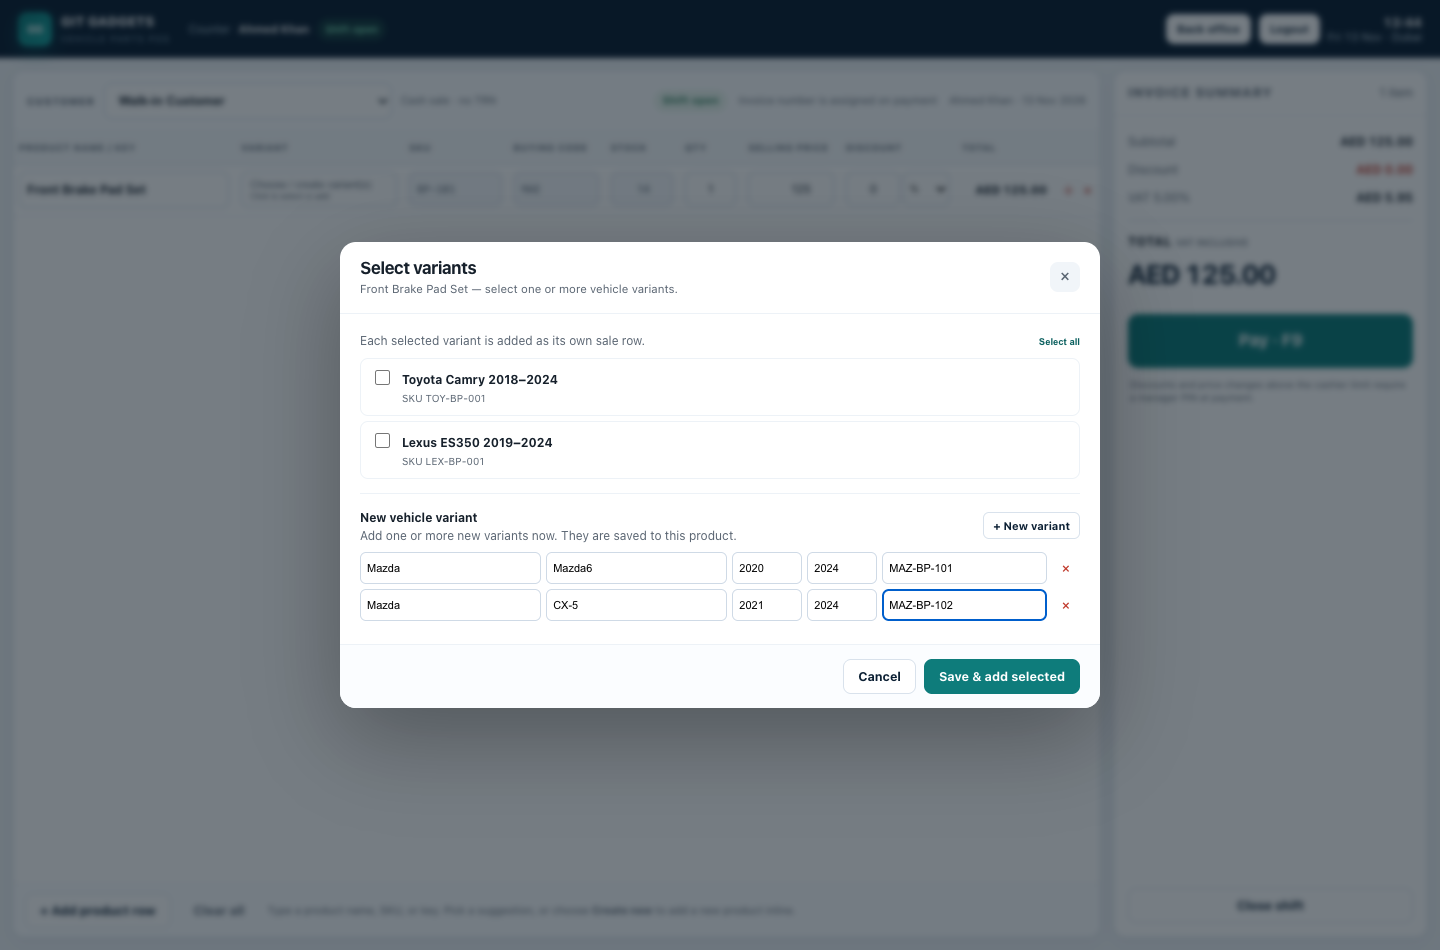
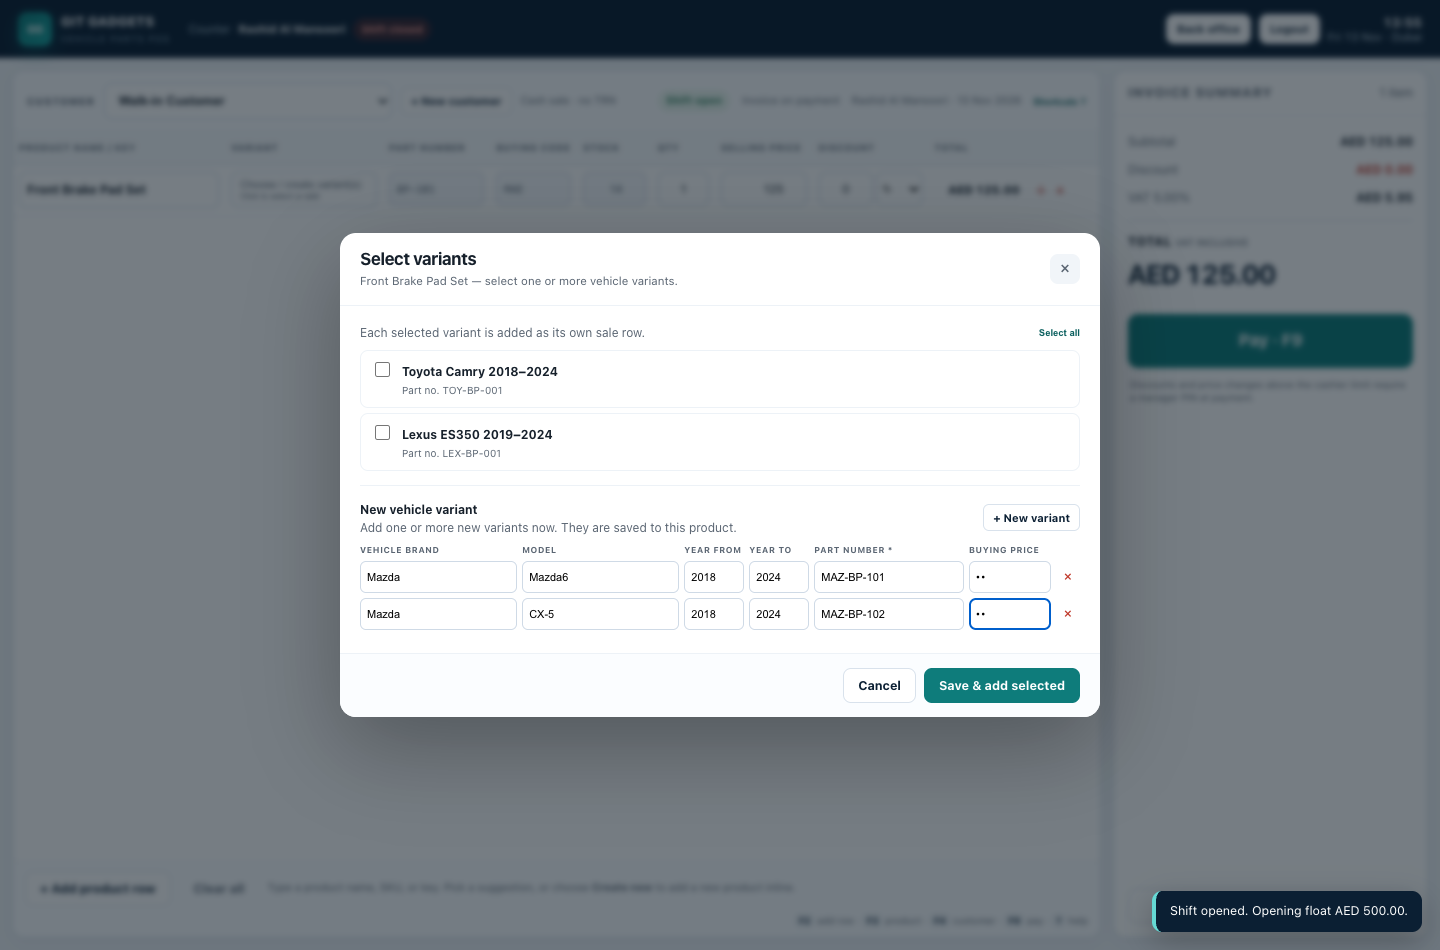
Add per-variant buying price and part numbers

diff --git a/public/js/pos.js b/public/js/pos.js
@@ -416,12 +416,15 @@
     const addNewVariantRow = () => {
         const row = document.createElement('div');
         row.className = 'new-variant-row';
+        const canViewCost = !!boot.user?.can_view_cost;
+        row.className = 'new-variant-row' + (canViewCost ? ' with-cost' : '');
         row.innerHTML = `
             <input data-new-brand list="variant-brand-list" placeholder="Vehicle brand" autocomplete="off">
             <input data-new-model list="variant-model-list" placeholder="Model" autocomplete="off">
             <input data-new-year-from type="number" min="1950" max="2100" value="2018" placeholder="From">
             <input data-new-year-to type="number" min="1950" max="2100" value="2024" placeholder="To">
             <input data-new-mapped placeholder="Part number *">
+            ${canViewCost ? '<input data-new-cost type="password" inputmode="decimal" autocomplete="off" placeholder="Buying price">' : ''}
             <button type="button" class="remove" data-remove-new-variant>×</button>
         `;
         $('#new-variant-rows').appendChild(row);
@@ -471,6 +474,7 @@
             year_from: Number(row.querySelector('[data-new-year-from]').value || 0),
             year_to: Number(row.querySelector('[data-new-year-to]').value || 0),
             mapped_part_number: row.querySelector('[data-new-mapped]').value.trim(),
+            cost_price: row.querySelector('[data-new-cost]')?.value.trim() || null,
         })).filter(row => row.vehicle_brand || row.vehicle_model);
     };
 

diff --git a/public/css/app.css b/public/css/app.css
@@ -524,3 +524,6 @@ table.table { width: 100%; border-collapse: collapse; font-size: 12.5px; }
 .shortcut-list { display: flex; flex-direction: column; gap: 7px; }
 .shortcut-list div { display: flex; align-items: center; gap: 12px; font-size: 12px; }
 .shortcut-list kbd { display: inline-flex; min-width: 46px; justify-content: center; background: #eef3f7; border: 1px solid var(--line); border-bottom-width: 2px; border-radius: 5px; padding: 3px 6px; font-family: var(--mono); font-size: 10px; font-weight: 700; color: var(--navy); }
+.new-variant-row.with-cost { grid-template-columns: 1.05fr 1.05fr 60px 60px 1fr 82px 24px; }
+.new-variant-labels.with-cost { grid-template-columns: 1.05fr 1.05fr 60px 60px 1fr 82px 24px; }
+.new-variant-row input[type=password] { letter-spacing: .12em; }

diff --git a/tests/Feature/PosFlowTest.php b/tests/Feature/PosFlowTest.php
@@ -299,6 +299,45 @@ class PosFlowTest extends TestCase
         $this->assertDatabaseHas('car_models', ['name' => 'Sportage']);
     }
 
+    public function test_variant_buying_price_is_saved_and_used_for_cogs(): void
+    {
+        $owner = User::where('email', 'owner@gitgadgets.test')->firstOrFail();
+        $product = Product::where('primary_part_number', 'BP-101')->firstOrFail();
+
+        $this->actingAs($owner)->postJson('/api/pos/products/'.$product->id.'/variants', [
+            'variants' => [[
+                'vehicle_brand' => 'Mazda',
+                'vehicle_model' => 'Mazda3',
+                'year_from' => 2020,
+                'year_to' => 2024,
+                'mapped_part_number' => 'MAZ-BP-001',
+                'cost_price' => 55.25,
+            ]],
+        ])->assertOk();
+
+        $this->assertDatabaseHas('product_fitments', [
+            'product_id' => $product->id,
+            'mapped_part_number' => 'MAZ-BP-001',
+            'cost_price' => 55.25,
+        ]);
+
+        $this->actingAs($this->cashier())->postJson('/api/pos/sales', [
+            'items' => [[
+                'product_id' => $product->id,
+                'qty' => 1,
+                'unit_price' => 125,
+                'variant_label' => 'Mazda Mazda3 2020–2024',
+                'variant_sku' => 'MAZ-BP-001',
+            ]],
+            'payments' => [['method' => 'cash', 'amount' => 125, 'tendered' => 125]],
+        ])->assertCreated();
+
+        $this->assertDatabaseHas('sale_items', [
+            'variant_sku' => 'MAZ-BP-001',
+            'cost_price' => 55.25,
+        ]);
+    }
+
     public function test_cashier_can_create_multiple_variants_for_an_existing_product_from_pos(): void
     {
         $product = Product::where('primary_part_number', 'BP-101')->firstOrFail();

diff --git a/app/Http/Controllers/Api/PosApiController.php b/app/Http/Controllers/Api/PosApiController.php
@@ -101,6 +101,18 @@ class PosApiController extends Controller
         ], 201);
     }
 
+    private function stripCostForCashier(array $rows, Request $request): array
+    {
+        if ($request->user()->canViewCost()) {
+            return $rows;
+        }
+
+        return array_map(function ($row) {
+            unset($row['cost_price']);
+            return $row;
+        }, $rows);
+    }
+
     public function quickAdd(Request $request, StockService $stock, AuditService $audit, VehicleVariantService $variants)
     {
         abort_unless($request->user()->canSell(), 403);
@@ -141,7 +153,7 @@ class PosApiController extends Controller
                 'track_stock' => true,
             ]);
 
-            $variantRows = $data['variants'] ?? [];
+            $variantRows = $this->stripCostForCashier($data['variants'] ?? [], $request);
             if (! empty($data['vehicle_brand']) && ! empty($data['vehicle_model'])) {
                 $variantRows[] = [
                     'vehicle_brand' => $data['vehicle_brand'],
@@ -178,7 +190,7 @@ class PosApiController extends Controller
             'variants' => ['required', 'array', 'min:1'],
         ]);
 
-        $variants->createMany($product, $data['variants']);
+        $variants->createMany($product, $this->stripCostForCashier($data['variants'], $request));
 
         $fitments = $product->fitments()
             ->with(['brand', 'model'])

diff --git a/app/Services/SaleService.php b/app/Services/SaleService.php
@@ -81,6 +81,13 @@ class SaleService
                     $requested[$product->id] = ($requested[$product->id] ?? 0) + $qty;
                 }
 
+                $variantCost = null;
+                if (! empty($item['variant_sku'])) {
+                    $variantCost = $product->fitments()
+                        ->where('mapped_part_number', $item['variant_sku'])
+                        ->value('cost_price');
+                }
+
                 $lines[] = [
                     'product_id' => $product->id,
                     'primary_part_number' => $product->primary_part_number,
@@ -93,7 +100,7 @@ class SaleService
                     'discount_type' => $item['discount_type'] ?? 'none',
                     'discount_value' => (float) ($item['discount_value'] ?? 0),
                     'tax_rate' => (float) $product->tax_rate,
-                    'cost_price' => (float) $product->cost_price,
+                    'cost_price' => $variantCost !== null ? (float) $variantCost : (float) $product->cost_price,
                     'price_override' => $isOverride,
                     'override_reason' => $item['override_reason'] ?? null,
                 ];

diff --git a/app/Services/VehicleVariantService.php b/app/Services/VehicleVariantService.php
@@ -50,12 +50,20 @@ class VehicleVariantService
                 ]);
             }
 
+            $cost = $row['cost_price'] ?? null;
+            if ($cost !== null && $cost !== '' && (! is_numeric($cost) || (float) $cost < 0)) {
+                throw ValidationException::withMessages([
+                    "variants.{$index}.cost_price" => 'The buying price must be zero or more.',
+                ]);
+            }
+
             $normalised[] = [
                 'vehicle_brand' => $brand,
                 'vehicle_model' => $model,
                 'year_from' => $yearFrom,
                 'year_to' => $yearTo,
                 'mapped_part_number' => $mapped,
+                'cost_price' => ($cost === null || $cost === '') ? null : round((float) $cost, 2),
             ];
         }
 
@@ -90,6 +98,7 @@ class VehicleVariantService
                 'year_from' => $row['year_from'],
                 'year_to' => $row['year_to'],
                 'mapped_part_number' => $row['mapped_part_number'],
+                'cost_price' => $row['cost_price'] ?? null,
             ]);
             $created++;
         }

diff --git a/resources/views/pos/index.blade.php b/resources/views/pos/index.blade.php
@@ -165,7 +165,11 @@
                 <div><strong>New vehicle variant</strong><div class="small muted">Add one or more new variants now. They are saved to this product.</div></div>
                 <button class="btn btn-secondary btn-sm" type="button" id="add-new-variant">+ New variant</button>
             </div>
-            <div class="new-variant-labels"><span>Vehicle brand</span><span>Model</span><span>Year from</span><span>Year to</span><span>Part number *</span><span></span></div>
+            <div class="new-variant-labels {{ auth()->user()->canViewCost() ? 'with-cost' : '' }}">
+                <span>Vehicle brand</span><span>Model</span><span>Year from</span><span>Year to</span><span>Part number *</span>
+                @if(auth()->user()->canViewCost())<span>Buying price</span>@endif
+                <span></span>
+            </div>
             <div id="new-variant-rows"></div>
         </div>
         <div class="modal-foot">

diff --git a/database/migrations/2026_11_13_000300_add_cost_price_to_product_fitments.php b/database/migrations/2026_11_13_000300_add_cost_price_to_product_fitments.php
@@ -1,0 +1,22 @@
+<?php
+
+use Illuminate\Database\Migrations\Migration;
+use Illuminate\Database\Schema\Blueprint;
+use Illuminate\Support\Facades\Schema;
+
+return new class extends Migration
+{
+    public function up(): void
+    {
+        Schema::table('product_fitments', function (Blueprint $table) {
+            $table->decimal('cost_price', 12, 2)->nullable()->after('mapped_part_number');
+        });
+    }
+
+    public function down(): void
+    {
+        Schema::table('product_fitments', function (Blueprint $table) {
+            $table->dropColumn('cost_price');
+        });
+    }
+};

diff --git a/app/Models/ProductFitment.php b/app/Models/ProductFitment.php
@@ -8,8 +8,13 @@ class ProductFitment extends Model
 {
     protected $fillable = [
         'product_id', 'car_brand_id', 'car_model_id', 'year_from', 'year_to', 'engine',
-        'mapped_part_number',
+        'mapped_part_number', 'cost_price',
     ];
+
+    protected function casts(): array
+    {
+        return ['cost_price' => 'decimal:2'];
+    }
 
     public function product()
     {

diff --git a/README.md b/README.md
@@ -13,6 +13,7 @@ It is built around the two things a parts shop needs at the counter: **fitment-f
 - **Inline product creation** — when a product is not in the catalogue, create it from the sale row with SKU, secret buying code, selling price and opening stock. Vehicle variants can be selected in the row; the **＋** action duplicates the product for another variant.
 - **Table POS** — customer selection, walk-in default, **new-customer creation from the POS**, product search, a click-to-select variant picker that can add several existing variants or create multiple new vehicle variants at once, inline new-product rows, quantity, line discounts, price override with a reason, split cash/card/credit/bank payments and cash change.
 - **Variant part numbers** — every vehicle variant carries its own part number. The SKU column, invoice and receipt use the selected variant part number while retaining the parent product number.
+- **Variant buying price** — each new variant can carry a masked buying price. The value is stored on the variant and used for COGS; it is never shown in the sale table or on customer documents.
 - **Hidden buying price** — owners and managers can enter a masked buying price for a new product from the row lock action. It is stored as the numeric cost and never displayed in the table or on customer documents.
 - **Keyboard-first** — F2 add row, F3 product search, F4 new customer, F9 payment, and `?` for the shortcut reference.
 - **Approval controls** — discounts above the cashier limit and price overrides require a manager PIN (`1234` in the demo).
@@ -97,7 +98,7 @@ php artisan test
 
 The suite covers VAT-inclusive/exclusive calculations, invoice discounts, split-payment sales, stock decrementing, cost visibility, manager approval, Quick Add, invoice privacy, credit notes/restocking, and role restrictions.
 
-Current result: **23 tests passing** (including VAT, split payments, table POS, discounts, multi-variant product creation, variant snapshots, returns and cost-privacy checks).
+Current result: **24 tests passing** (including VAT, split payments, table POS, discounts, multi-variant product creation, variant snapshots, returns and cost-privacy checks).
 
 ## Key project files
 
